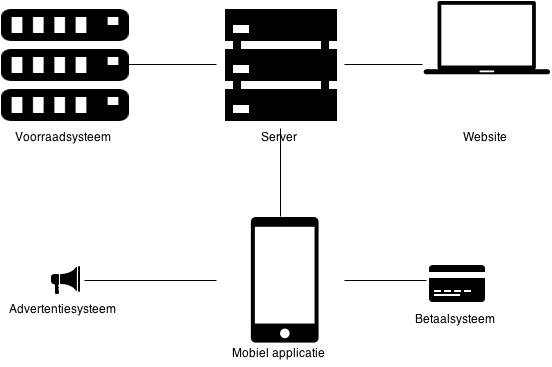
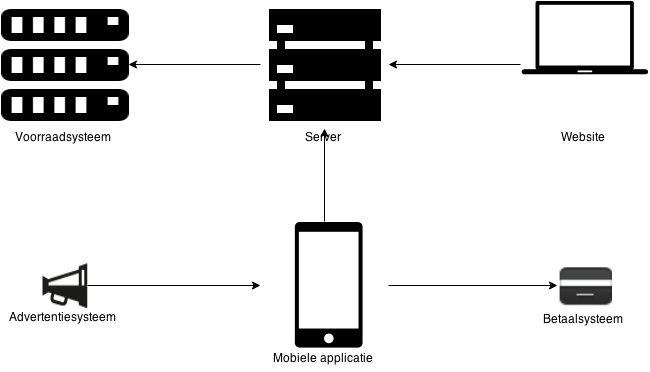
Updated product_perspective.png. Fixed version number. Typo's.

diff --git a/docs/vision-document/chapters/overige-requirements.md b/docs/vision-document/chapters/overige-requirements.md
@@ -6,9 +6,12 @@ Aan het product worden een aantal eisen gesteld die niet direct omschreven kunne
 functies die het product aan de klant biedt. Deze eisen staan hieronder:
 
 1. _Scanverwerkingstijd_ (het scannen/afhandelen van een product) mag maximaal 2 seconden duren.
-2. De app moet _ondersteund_ worden _door iOS en Android_ (voor de _PoC_ wordt volstaan met alleen Android).
-3. Het systeem moet _minimaal 1,000 actieve app clients tegelijkertijd_ kunnen verwerken.
-4. Het systeem moet (relatief) eenvoudig _uit te rollen zijn_ zijn _in meerdere filialen_, zonder dat deze van elkaar afhankelijk zijn.
+2. De app moet _ondersteund_ worden _door iOS en Android_ (voor de _PoC_ wordt volstaan met alleen
+   Android).
+3. De _PoC_ moet _minimaal 100 actieve app clients tegelijkertijd_ kunnen verwerken. Meer dan 100
+   klanten zullen er niet tegelijkertijd in de winkel aanwezig zijn.
+4. Het systeem moet (relatief) eenvoudig _uit te rollen zijn_ zijn _in meerdere filialen_, zonder
+   dat deze van elkaar afhankelijk zijn.
 
 ## 6.2 Randvoorwaarden
 
@@ -16,7 +19,8 @@ Er zijn een aantal voorwaarden voldaan worden om succesvol een _PoC_ te ontwikke
 
 1. De _PoC_ moet binnen 3 weken kunnen worden gedemonstreerd.
 2. Het systeem dient gekoppeld te kunnen worden aan verschillende soorten voorraadsystemen.
-3. De klant van de supermarkt heeft de beschikking over smartphone met internet (of Wi-Fi ondersteuning) en een camera.
+3. De klant van de supermarkt heeft de beschikking over smartphone met internet (of Wi-Fi
+   ondersteuning) en een camera.
 3. Supermarkt biedt een gratis Wi-Fi aan.
 
 Wanneer het project breder wordt uitgerold zal de de volgende randvoorwaarden voldaan moet worden:
